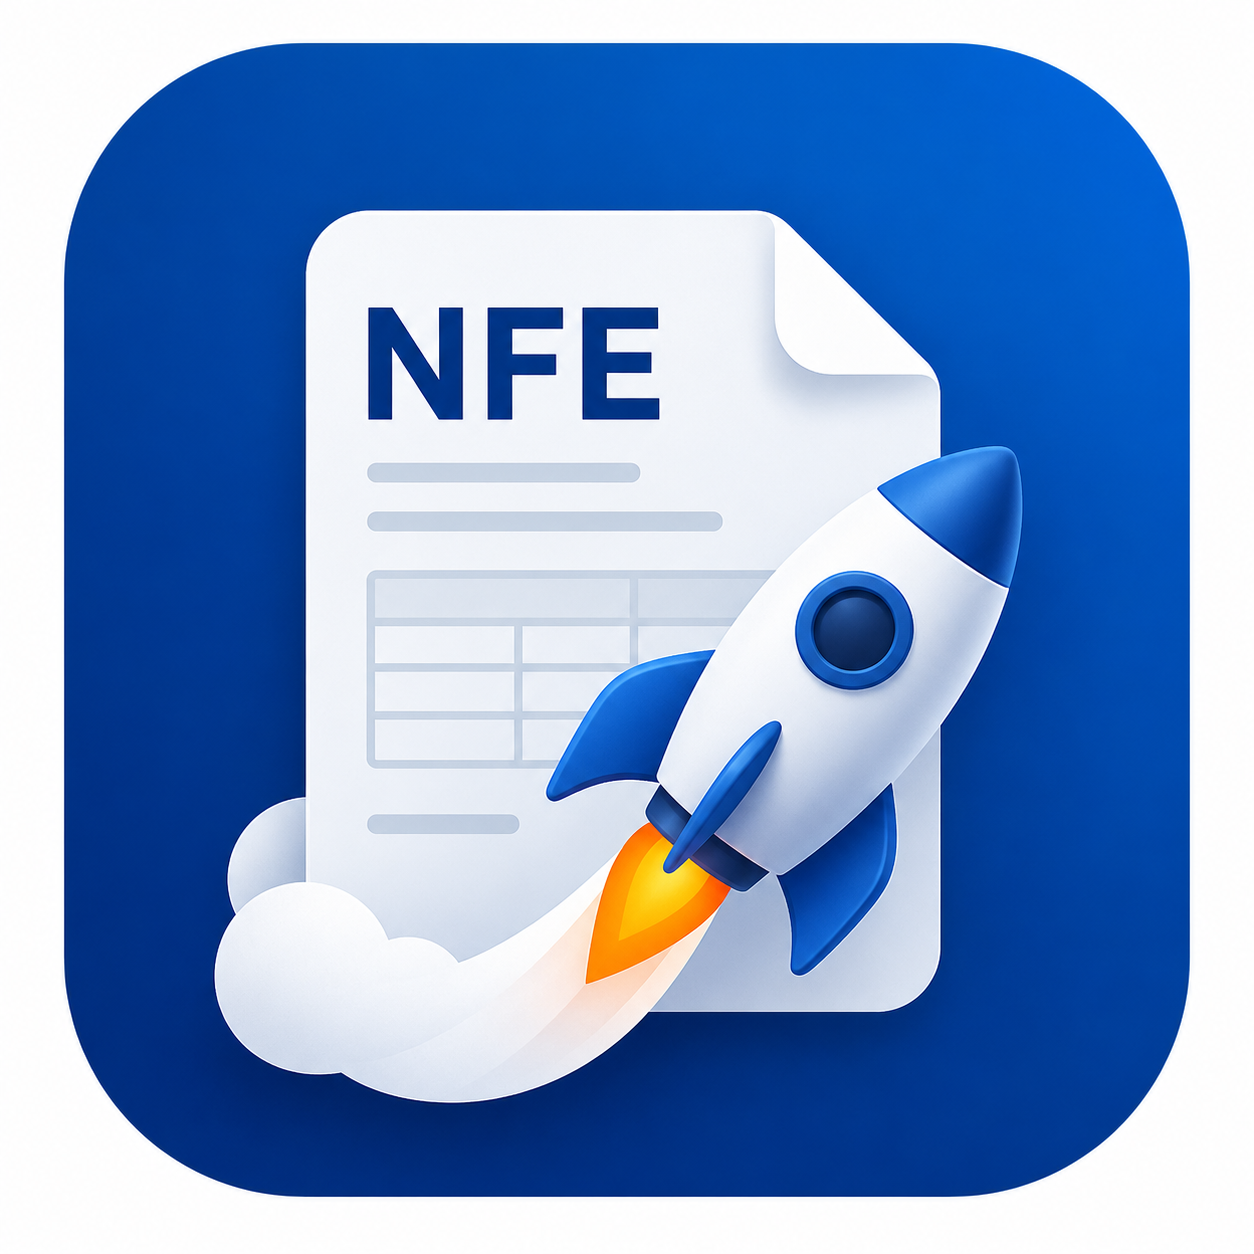
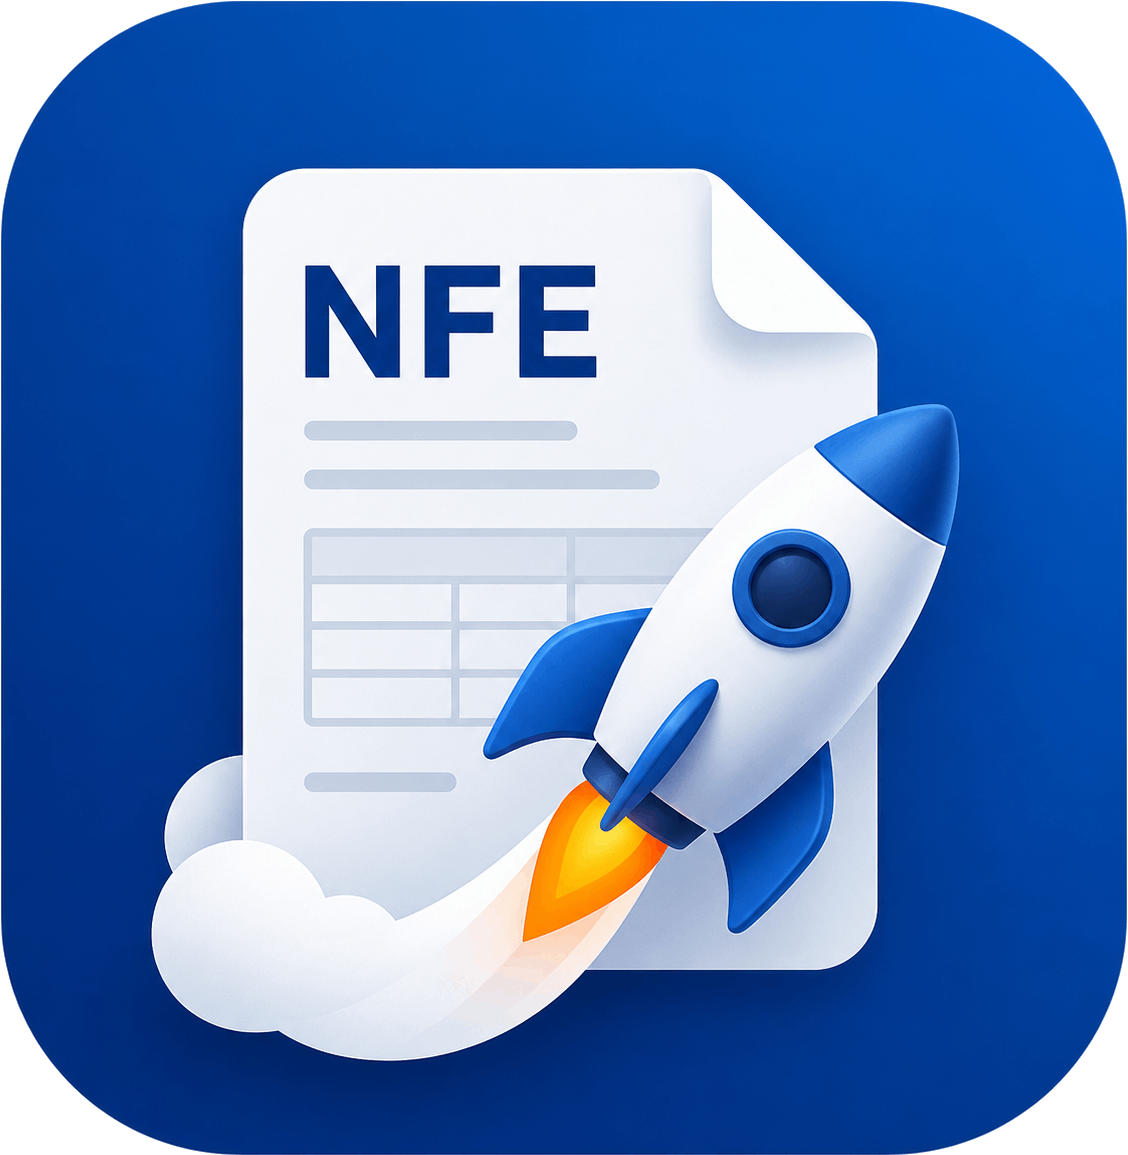
feat: improve zoom functionality in PDF preview with centered zooming

diff --git a/daily-launcher/preview.js b/daily-launcher/preview.js
@@ -73,24 +73,41 @@ chrome.storage.session.get("previewPdf", async ({ previewPdf }) => {
 
 btnPrev.addEventListener("click",    () => renderPage(currentPage - 1));
 btnNext.addEventListener("click",    () => renderPage(currentPage + 1));
-btnZoomIn.addEventListener("click",  async () => {
-  zoomScale = Math.min(ZOOM_MAX, +(zoomScale + ZOOM_STEP).toFixed(2));
+async function zoomAround(newZoom) {
+  const oldZoom = zoomScale;
+  const cx      = scroll.scrollLeft + scroll.clientWidth  / 2;
+  const cy      = scroll.scrollTop  + scroll.clientHeight / 2;
+  zoomScale     = newZoom;
   await renderPage(currentPage);
-});
-btnZoomOut.addEventListener("click", async () => {
-  zoomScale = Math.max(ZOOM_MIN, +(zoomScale - ZOOM_STEP).toFixed(2));
-  await renderPage(currentPage);
-});
+  const ratio   = newZoom / oldZoom;
+  scroll.scrollLeft = cx * ratio - scroll.clientWidth  / 2;
+  scroll.scrollTop  = cy * ratio - scroll.clientHeight / 2;
+}
 
-// Ctrl+scroll para zoom
+btnZoomIn.addEventListener("click",  () => zoomAround(Math.min(ZOOM_MAX, +(zoomScale + ZOOM_STEP).toFixed(2))));
+btnZoomOut.addEventListener("click", () => zoomAround(Math.max(ZOOM_MIN, +(zoomScale - ZOOM_STEP).toFixed(2))));
+
+// Ctrl+scroll para zoom — ancora no ponto sob o cursor
 scroll.addEventListener("wheel", async (e) => {
   if (!e.ctrlKey) return;
   e.preventDefault();
-  const delta = e.deltaY < 0 ? ZOOM_STEP : -ZOOM_STEP;
-  const next  = +(zoomScale + delta).toFixed(2);
+  const oldZoom = zoomScale;
+  const delta   = e.deltaY < 0 ? ZOOM_STEP : -ZOOM_STEP;
+  const next    = +(zoomScale + delta).toFixed(2);
   if (next < ZOOM_MIN || next > ZOOM_MAX) return;
+
+  const rect    = scroll.getBoundingClientRect();
+  const mouseX  = e.clientX - rect.left;
+  const mouseY  = e.clientY - rect.top;
+  const originX = scroll.scrollLeft + mouseX;
+  const originY = scroll.scrollTop  + mouseY;
+
   zoomScale = next;
   await renderPage(currentPage);
+
+  const ratio = next / oldZoom;
+  scroll.scrollLeft = originX * ratio - mouseX;
+  scroll.scrollTop  = originY * ratio - mouseY;
 }, { passive: false });
 
 // Drag to pan

diff --git a/daily-launcher/background.js b/daily-launcher/background.js
@@ -2,21 +2,21 @@ chrome.action.onClicked.addListener(async () => {
   const popupUrl = chrome.runtime.getURL("popup.html");
 
   const existing = await chrome.windows.getAll({ windowTypes: ["popup"], populate: true });
-  const popupWin = existing.find(w => w.tabs?.some(t => t.url?.startsWith(popupUrl)));
+  const popupWin = existing.find((w) => w.tabs?.some((t) => t.url?.startsWith(popupUrl)));
 
   if (popupWin) {
     chrome.windows.update(popupWin.id, { focused: true });
     return;
   }
 
-  const width  = 340;
-  const height = 620;
+  const width = 340;
+  const height = 745;
   const margin = 20;
 
   const browserWin = await chrome.windows.getLastFocused({ windowTypes: ["normal"] });
 
-  const left = browserWin.left + browserWin.width  - width  - margin;
-  const top  = browserWin.top  + margin;
+  const left = browserWin.left + browserWin.width - width - margin;
+  const top = browserWin.top + margin;
 
   chrome.windows.create({
     url: popupUrl,

diff --git a/daily-launcher/preview.html b/daily-launcher/preview.html
@@ -56,14 +56,12 @@
         padding: 12px;
         cursor: grab;
         user-select: none;
-        display: flex;
-        justify-content: center;
-        align-items: flex-start;
       }
       #scroll.dragging { cursor: grabbing; }
 
       #canvas {
         display: block;
+        margin: 0 auto;
         background: white;
         box-shadow: 0 2px 12px rgba(0,0,0,0.4);
         pointer-events: none;